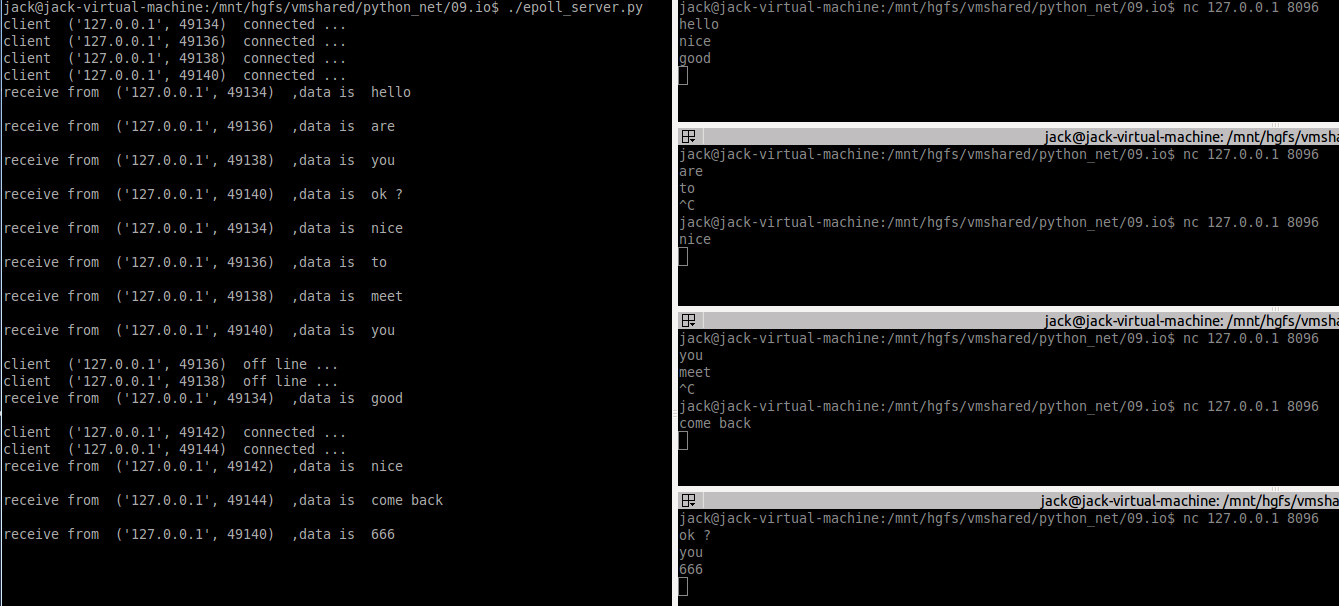
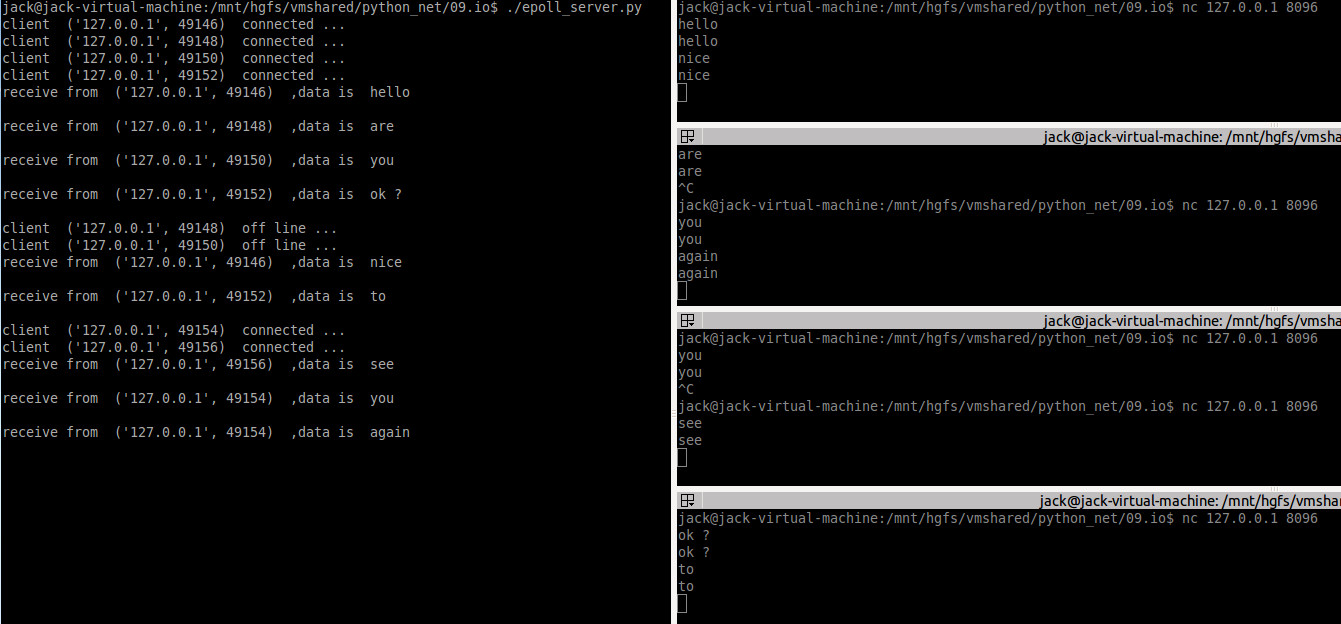
加入selectors

Changed region(s): [[0.0, 0.0, 1.0, 1.0], [0.0, 0.3564, 0.3368, 0.8317], [0.0, 0.8614, 0.3062, 0.8911]]

diff --git a/09.IO复用/src/selector.py b/09.IO复用/src/selector.py
@@ -1,0 +1,58 @@
+#!/usr/bin/env python3
+
+from socket import *
+import selectors
+
+ADDR = '127.0.0.1'
+PORT = 8096
+
+def read(conn, sel):
+	try:
+		data = conn.recv(1024).decode('utf-8') 
+		peer = conn.getpeername()
+		if not data:
+			print('client ', peer, ' off line ...')
+			sel.unregister(conn)
+			conn.close()
+			return
+		print('receive from ', peer, ' ,data is ', data)
+		conn.send(data.encode('utf-8'))
+	except Exception:
+		print('Exception...')
+		sel.unregister(conn)
+		conn.close()
+		
+def accept(server, sel):
+	conn, addr=server.accept()
+	sel.register(conn, selectors.EVENT_READ, read)
+	print('client ', addr, ' connected ...')
+
+def main():
+	server = socket(AF_INET, SOCK_STREAM)
+	server.setsockopt(SOL_SOCKET, SO_REUSEADDR, 1)
+	server.setblocking(False)
+	server.bind((ADDR, PORT))
+	server.listen(5)
+
+	sel=selectors.DefaultSelector()
+	# 关注监听套接字的“读事件”，处理函数为accept
+	sel.register(server, selectors.EVENT_READ, accept) 
+
+	while True:
+		events = sel.select() #检测所有的fileobj，是否有完成wait data的
+		'''
+		fileobj：    表示已经注册的文件对象；
+		fd:          表示文件对象的描述符，是一个整数，它是文件对象的 fileno()方法的返回值；
+		events:      表示注册一个文件对象时，关注事件的类型, event mask :
+																EVENT_READ ：表示可读的，值其实是1
+																EVENT_WRITE：表示可写的，值其实是2
+		data:        表示注册一个文件对象是邦定的data；
+		'''
+		for sel_obj, mask in events:
+			# 获取事件处理函数，例如，server监听套接字为accept
+			callback = sel_obj.data 
+			# 调用事件处理函数
+			callback(sel_obj.fileobj, sel)
+
+if __name__ == "__main__":
+    main()

diff --git a/09.IO复用/README.md b/09.IO复用/README.md
@@ -1,9 +1,11 @@
 <!-- START doctoc generated TOC please keep comment here to allow auto update -->
 <!-- DON'T EDIT THIS SECTION, INSTEAD RE-RUN doctoc TO UPDATE -->
 
+
 - [IO 复用](#io-%E5%A4%8D%E7%94%A8)
     - [1、select](#1select)
     - [2、epoll](#2epoll)
+    - [3、selectors](#3selectors)
 
 <!-- END doctoc generated TOC please keep comment here to allow auto update -->
 
@@ -164,3 +166,143 @@ if __name__ == "__main__":
 
 ![](./img/epoll.jpg)
 
+### 3、selectors
+
+函数参数介绍来源 [python--selectors模块](https://www.cnblogs.com/clschao/articles/9718463.html)
+
+前面介绍的IO多路复用模型在不同的平台有着不同的支持，而epoll在windows下就不支持，selectors解决了这个问题，程序员只需要填写监听对象，然后处理消息事件，但具体如何监听的，选择的是select还是epoll，全部交给selector。更多内容查看 python文档：https://docs.python.org/3/library/selectors.html
+
+该模块定义了一个 BaseSelector的抽象基类， 以及它的子类，包括：SelectSelector， PollSelector,，EpollSelector，DevpollSelector，KqueueSelector.。除此之外外还有一个DefaultSelector类，它其实是以上其中一个子类的别名而已，它自动选择为当前环境中最有效的Selector，所以通常使用 DefaultSelector类就可以了，其它类用不到。
+
+ **该模块定义了两个常量，用于描述 event Mask**
+
+> EVENT_READ ：   表示可读的，值为1；
+>
+> EVENT_WRITE：   表示可写的，值为2；
+
+ **模块定义了一个 SelectorKey类， 一般用这个类的实例 来描述一个已经注册的文件对象的状态， 这个类的几个属性常用到：**
+
+> fileobj：  表示已经注册的文件对象；
+>
+> fd:     表示文件对象的描述符，是一个整数，它是文件对象的 fileno()方法的返回值；
+>
+> events:  表示注册一个文件对象时，关注的事件类型,  即上面的event Mask
+>
+> data:    表示注册一个文件对象是邦定的data；
+
+ **最后说说抽象基类中的方法：**
+
+> register(fileobj, events, data=None)   
+>
+> 　　作用：注册一个文件对象。
+>
+> 　　参数： fileobj——即可以是fd 也可以是一个拥有fileno()方法的对象； 
+>
+> 　　events——上面的event Mask 常量； data
+>
+> 　　返回值： 一个SelectorKey类的实例；
+>
+> 
+>
+> unregister(fileobj)             
+>
+> 　　作用： 注销一个已经注册过的文件对象；   
+>
+> 　　返回值：一个SelectorKey类的实例；
+>
+>  
+>
+> modify(fileobj, events, data=None)  
+>
+> 　　作用：用于修改一个注册过的文件对象，比如从监听可读变为监听可写；它其实就是register() 后再跟unregister(),    但是使用modify( ) 更高效；
+>
+> 　　返回值：一个SelectorKey类的实例；
+>
+>  
+>
+> select(timeout=None)          
+>
+> 　　作用： 用于选择满足我们监听的event的文件对象；
+>
+> 　　返回值： 是一个(key, events)的元组， 其中key是一个SelectorKey类的实例， 而events 就是 event Mask（EVENT_READ或EVENT_WRITE,或者二者的组合)
+>
+>  
+>
+> close()                  
+>
+> 　　 作用：关闭 selector。 最后一定要记得调用它， 要确保所有的资源被释放；
+>
+>  
+>
+> get_key(fileobj)             
+>
+> 　　作用： 返回注册文件对象的 key；
+>
+> 　　返回值 ：一个SelectorKey类的实例；
+
+有了前面的基础后，直接上代码src/selector.py：
+
+```python
+#!/usr/bin/env python3
+
+from socket import *
+import selectors
+
+ADDR = '127.0.0.1'
+PORT = 8096
+
+def read(conn, sel):
+	try:
+		data = conn.recv(1024).decode('utf-8') 
+		peer = conn.getpeername()
+		if not data:
+			print('client ', peer, ' off line ...')
+			sel.unregister(conn)
+			conn.close()
+			return
+		print('receive from ', peer, ' ,data is ', data)
+		conn.send(data.encode('utf-8'))
+	except Exception:
+		print('Exception...')
+		sel.unregister(conn)
+		conn.close()
+		
+def accept(server, sel):
+	conn, addr=server.accept()
+	sel.register(conn, selectors.EVENT_READ, read)
+	print('client ', addr, ' connected ...')
+
+def main():
+	server = socket(AF_INET, SOCK_STREAM)
+	server.setsockopt(SOL_SOCKET, SO_REUSEADDR, 1)
+	server.setblocking(False)
+	server.bind((ADDR, PORT))
+	server.listen(5)
+
+	sel=selectors.DefaultSelector()
+	# 关注监听套接字的“读事件”，处理函数为accept
+	sel.register(server, selectors.EVENT_READ, accept) 
+
+	while True:
+		events = sel.select() #检测所有的fileobj，是否有完成wait data的
+		'''
+		fileobj：    表示已经注册的文件对象；
+		fd:          表示文件对象的描述符，是一个整数，它是文件对象的 fileno()方法的返回值；
+		events:      表示注册一个文件对象时，关注事件的类型, event mask :
+																EVENT_READ ：表示可读的，值其实是1
+																EVENT_WRITE：表示可写的，值其实是2
+		data:        表示注册一个文件对象是邦定的data；
+		'''
+		for sel_obj, mask in events:
+			# 获取事件处理函数，例如，server监听套接字为accept
+			callback = sel_obj.data 
+			# 调用事件处理函数
+			callback(sel_obj.fileobj, sel)
+
+if __name__ == "__main__":
+    main()
+```
+
+运行结果如下：
+
+![](./img/selector.jpg)
